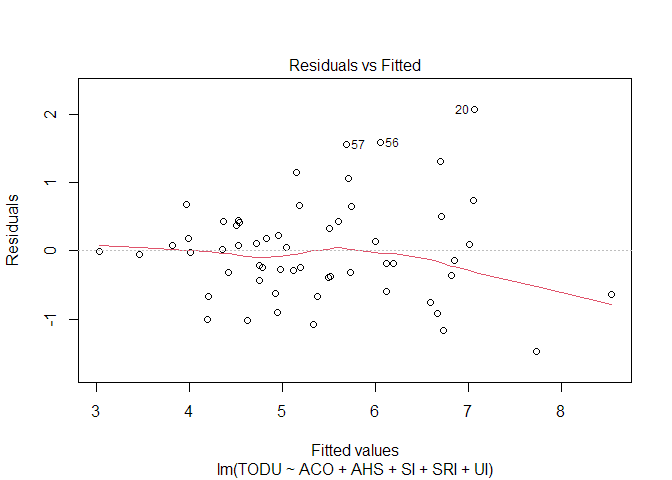
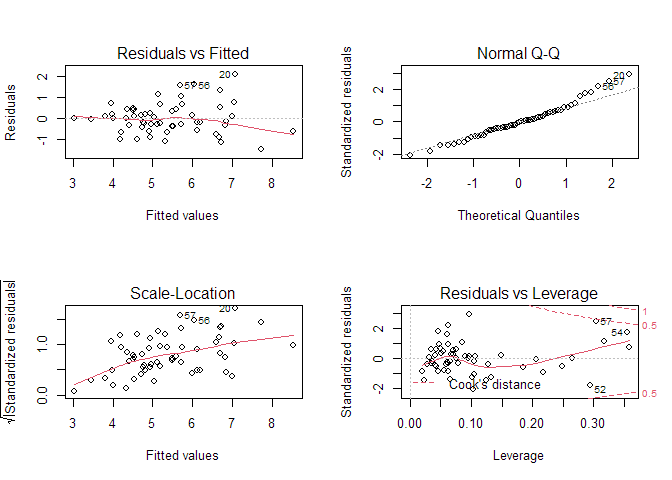
review MLR models
#14

diff --git a/2-MultipleLinearRegression.md b/2-MultipleLinearRegression.md
@@ -99,47 +99,50 @@ Data summary
 | SRI            |          0 |              1 | 49.56 | 15.84 | 20.89 | 38.14 | 49.37 | 60.85 | 87.38 | ▅▆▇▅▂ |
 | UI             |          0 |              1 | 52.62 | 13.46 | 24.08 | 44.80 | 55.51 | 61.09 | 83.66 | ▃▅▇▅▁ |
 
+``` r
+summary(df)
+```
+
+    ##       TODU            ACO              AHS              SI       
+    ##  Min.   :3.020   Min.   :0.5000   Min.   :1.830   Min.   : 2.17  
+    ##  1st Qu.:4.540   1st Qu.:0.6700   1st Qu.:3.000   1st Qu.: 6.82  
+    ##  Median :5.100   Median :0.7900   Median :3.190   Median : 9.86  
+    ##  Mean   :5.373   Mean   :0.8118   Mean   :3.185   Mean   :13.07  
+    ##  3rd Qu.:6.130   3rd Qu.:0.9200   3rd Qu.:3.370   3rd Qu.:15.08  
+    ##  Max.   :9.140   Max.   :1.3200   Max.   :4.500   Max.   :62.53  
+    ##       SRI              UI       
+    ##  Min.   :20.89   Min.   :24.08  
+    ##  1st Qu.:38.14   1st Qu.:44.80  
+    ##  Median :49.37   Median :55.51  
+    ##  Mean   :49.56   Mean   :52.62  
+    ##  3rd Qu.:60.85   3rd Qu.:61.09  
+    ##  Max.   :87.38   Max.   :83.66
+
 ## Multiple Linear Regression
 
 Equation with `TODU` as the dependent variable:
 
-*y*<sub>*T**O**D**U*</sub> = *β*<sub>0</sub> + *β*<sub>1</sub>*A**C**O* + *β*<sub>2</sub>*A**H**S* + *β*<sub>3</sub>*S**I* + *β*<sub>4</sub>*S**R**I* + *β*<sub>5</sub>*U**I* + *ε*
+*Y*<sub>TODU</sub> = *β*<sub>0</sub> + *β*<sub>1</sub>ACO + *β*<sub>2</sub>AHS + *β*<sub>3</sub>SI + *β*<sub>4</sub>SRI + *β*<sub>5</sub>UI + *ε*
 
 #### Checking assumptions
 
 Before running the model, you need to check if the assumptions are met.
+
+##### Linear relation
+
 For instance, let’s take a look if the independent variables have linear
 relation with the dependent variable.
 
 ``` r
+par(mfrow=c(2,3)) #set plot area as 2 rows and 3 columns
 plot(x = df$TODU, y = df$ACO, xlab = "TODU", ylab = "ACO")  
-```
-
-![](README_files/1-MLR/unnamed-chunk-5-1.png)<!-- -->
-
-``` r
 plot(x = df$TODU, y = df$AHS, xlab = "TODU", ylab = "AHS")  
-```
-
-![](README_files/1-MLR/unnamed-chunk-5-2.png)<!-- -->
-
-``` r
 plot(x = df$TODU, y = df$SI, xlab = "TODU", ylab = "SI")  
-```
-
-![](README_files/1-MLR/unnamed-chunk-5-3.png)<!-- -->
-
-``` r
 plot(x = df$TODU, y = df$SRI, xlab = "TODU", ylab = "SRI")  
-```
-
-![](README_files/1-MLR/unnamed-chunk-5-4.png)<!-- -->
-
-``` r
 plot(x = df$TODU, y = df$UI, xlab = "TODU", ylab = "UI")
 ```
 
-![](README_files/1-MLR/unnamed-chunk-5-5.png)<!-- -->
+![](README_files/1-MLR/unnamed-chunk-5-1.png)<!-- -->
 
 Or you could execute a pairwise scatterplot matrix, that compares every
 variable with each other:
@@ -153,9 +156,10 @@ pairs(df[,1:6], pch = 19, lower.panel = NULL)
 > **Note:** SRI and TODU do not have a linear relationship. This should
 > interfere on the model.
 
-#### Check if the Dependent variable is normally distributed
+##### Normal distribution of the dependent variable
 
-If the sample is smaller than 2000 observations, use Shapiro-Wilk test:
+Check if the dependent variable is normally distributed. If the sample
+is smaller than 2000 observations, use Shapiro-Wilk test:
 
 ``` r
 shapiro.test(df$TODU)
@@ -183,20 +187,21 @@ ks.test(df$TODU, "pnorm", mean=mean(df$TODU), sd = sd(df$TODU))
     ## D = 0.12231, p-value = 0.3612
     ## alternative hypothesis: two-sided
 
-> **Note:** The warning that appears in the Kolmogorov-Smirnov test:
-> “ties should not be present for the Kolmogorov-Smirnov test”. Most
-> likely what happened is that this test is only reliable with
-> continuous variables. Although TODU is a continuous variable, the
-> small sample size, makes it likely to have repeated values.
-> Consequently, the test considers TODU as a categorical variable.
-> Therefore, this is another evidence, that for small samples it is more
-> appropriate to use the Shapiro-Wilk Test.
+> **Note:** Regarding the warning that appears in the Kolmogorov-Smirnov
+> test “ties should not be present for the Kolmogorov-Smirnov test”,
+> what most likely happened is that this test is only reliable with
+> continuous variables.
 
-> **Note:** The null hypothesis of both tests is that the distribution
-> is normal. Therefore, for the distribution to be normal, the pvalue
-> &gt; 0.05 and you should not reject the null hypothesis.
+Although `TODU` is a continuous variable, the small sample size (n=57)
+makes it likely to have repeated values. Consequently, the test
+considers `TODU` as a categorical variable. Therefore, this is another
+evidence, that for small samples it is more appropriate to use the
+Shapiro-Wilk Test.  
+The null hypothesis of both tests is that the distribution is normal.
+Therefore, for the distribution to be normal, the pvalue &gt; 0.05 and
+you should not reject the null hypothesis.
 
-#### Finally, let’s run the multiple linear regression model!
+### Multiple linear regression model
 
 ``` r
 model <- lm(TODU ~ ACO + AHS + SI + SRI + UI, data = df)
@@ -226,67 +231,75 @@ summary(model)
     ## Multiple R-squared:  0.7042, Adjusted R-squared:  0.6752 
     ## F-statistic: 24.28 on 5 and 51 DF,  p-value: 2.04e-12
 
-> **Note**: First check the pvalue and the F statistics of the model to
-> see if there is any statistical relation between the Dependent
-> Variable and the Independent Variables. If pvalue &lt; 0.05 and the F
-> statistics &gt; Fcritical = 2,39, then the model is statistically
-> acceptable.
+**Assessing the model**:
 
-> **Note**: The Rsquare and Adjusted Rsquare evaluate the amount of
-> variance that is explained by the model. The diference between one and
-> another is that the Rsquare does not consider the number of variables.
-> If you increase the number of variables in the model, the Rsquare will
-> tend to increase which can lead to overfitting. On the other hand, the
-> Adjusted Rsquare adjust to the number of independent variables.
+1.  First check the **pvalue** and the **F statistics** of the model to
+    see if there is any statistical relation between the dependent
+    variable and the independent variables. If pvalue &lt; 0.05 and the
+    F statistics &gt; Fcritical = 2,39, then the model is statistically
+    acceptable.  
+2.  The **R-square** and **Adjusted R-square** evaluate the amount of
+    variance that is explained by the model. The difference between one
+    and another is that the R-square does not consider the number of
+    variables. If you increase the number of variables in the model, the
+    R-square will tend to increase which can lead to overfitting. On the
+    other hand, the Adjusted R-square adjust to the number of
+    independent variables.  
+3.  Take a look a the **t-value** and the Pr(&gt;\|t\|). If the
+    t-value &gt; 1,96 or Pr(&gt;\|t\|) &lt; 0,05, then the IV is
+    statistically significant to the model.  
+4.  To analyze the **estimates** of the variables, you should first
+    check the **signal** and evaluate if the independent variable has a
+    direct or inverse relationship with the dependent variable. It is
+    only possible to evaluate the **magnitude** of the estimate if all
+    variables are continuous and standarzized or by calculating the
+    elasticities. The elasticities are explained and demonstrated in
+    chapter 4.
 
-> **Note**: Take a look a the tvalue and the Pr(&gt;\|t\|). If the
-> tvalue &gt; 1,96 or Pr(&gt;\|t\|) &lt; 0,05, then the IV is
-> statistically significant to the model.
+##### Residuals
 
-> **Note**: To analyze the estimates of the variables, you should first
-> check the signal and evaluate if the independent variable has a direct
-> or inverse relationship with the dependent variable. It is only
-> possible to evaluate the magnitude of the estimate if all variables
-> are continuous and standarzized or by calculating the elasticities.
-> The elasticities are explained and demonstrated in chapter 4.
-
-``` r
-plot(model)
-```
-
-![](README_files/1-MLR/unnamed-chunk-10-1.png)<!-- -->![](README_files/1-MLR/unnamed-chunk-10-2.png)<!-- -->![](README_files/1-MLR/unnamed-chunk-10-3.png)<!-- -->![](README_files/1-MLR/unnamed-chunk-10-4.png)<!-- -->
+Let’s see how do the residuals behave by plotting them.
 
 -   **Residuals vs Fitted:** This plot is used to detect non-linearity,
     heteroscedasticity, and outliers.
-
 -   **Normal Q-Q:** The quantile-quantile (Q-Q) plot is used to check if
     the dependent variable follows a normal distribution.
-
 -   **Scale-Location:** This plot is used to verify if the residuals are
     spread equally (homoscedasticity) or not (heteroscedasticity)
     through the sample.
-
 -   **Residuals vs Leverage:** This plot is used to detect the impact of
     the outliers in the model. If the outliers are outside the
     Cook-distance, this may lead to serious problems in the model.
 
 Try analyzing the plots and check if the model meets the assumptions.
 
-#### Execute the Durbin Watson test to evaluate autocorrelation of the residuals
+``` r
+par(mfrow=c(2,2))
+plot(model)
+```
+
+![](README_files/1-MLR/unnamed-chunk-10-1.png)<!-- -->
+
+##### Autocorrelation
+
+Execute the Durbin-Watson test to evaluate autocorrelation of the
+residuals
 
 ``` r
 durbinWatsonTest(model)
 ```
 
     ##  lag Autocorrelation D-W Statistic p-value
-    ##    1       0.1416308      1.597747   0.084
+    ##    1       0.1416308      1.597747    0.07
     ##  Alternative hypothesis: rho != 0
 
 > **Note:** In the Durbin-Watson test, values of the D-W Statistic vary
 > from 0 to 4. If the values are from 1.8 to 2.2 this means that there
 > is no autocorrelation in the model.
 
-#### Calculate the VIF and TOL to test multicollinearity
+##### Multicollinearity
+
+Calculate the VIF and TOL to test for multicollinearity.
 
 ``` r
 ols_vif_tol(model)
@@ -301,7 +314,7 @@ ols_vif_tol(model)
 
 > **Note:** Values of VIF &gt; 5, indicate multicollinearity problems.
 
-#### Calculate the Condition Index to test multicollinearity
+Calculate the Condition Index to test for multicollinearity
 
 ``` r
 ols_eigen_cindex(model)
@@ -326,35 +339,8 @@ ols_eigen_cindex(model)
 > problems, and values &gt; 30 indicate serious problems of
 > multicollinearity.
 
-#### To test both simultaneously, you can run the code below:
+To test both simultaneously, you can run the code below:
 
 ``` r
 ols_coll_diag(model)
 ```
-
-    ## Tolerance and Variance Inflation Factor
-    ## ---------------------------------------
-    ##   Variables Tolerance      VIF
-    ## 1       ACO 0.3528890 2.833752
-    ## 2       AHS 0.3963709 2.522889
-    ## 3        SI 0.7968916 1.254876
-    ## 4       SRI 0.5236950 1.909508
-    ## 5        UI 0.3165801 3.158758
-    ## 
-    ## 
-    ## Eigenvalue and Condition Index
-    ## ------------------------------
-    ##    Eigenvalue Condition Index    intercept          ACO          AHS
-    ## 1 5.386537577        1.000000 6.994331e-05 0.0005136938 0.0001916512
-    ## 2 0.444466338        3.481252 6.484243e-05 0.0026682253 0.0001278701
-    ## 3 0.084386209        7.989491 5.829055e-05 0.0478676279 0.0091615336
-    ## 4 0.073784878        8.544195 1.355679e-03 0.0031699136 0.0100934045
-    ## 5 0.009322827       24.037043 5.414145e-03 0.7943557055 0.2105218176
-    ## 6 0.001502171       59.881840 9.930371e-01 0.1514248340 0.7699037229
-    ##            SI         SRI           UI
-    ## 1 0.007888051 0.001515333 6.216297e-04
-    ## 2 0.693175876 0.006641788 7.488285e-07
-    ## 3 0.051400736 0.055585833 1.128114e-01
-    ## 4 0.152292605 0.382488929 4.801705e-02
-    ## 5 0.090809203 0.374832118 1.851308e-01
-    ## 6 0.004433528 0.178935999 6.534183e-01
